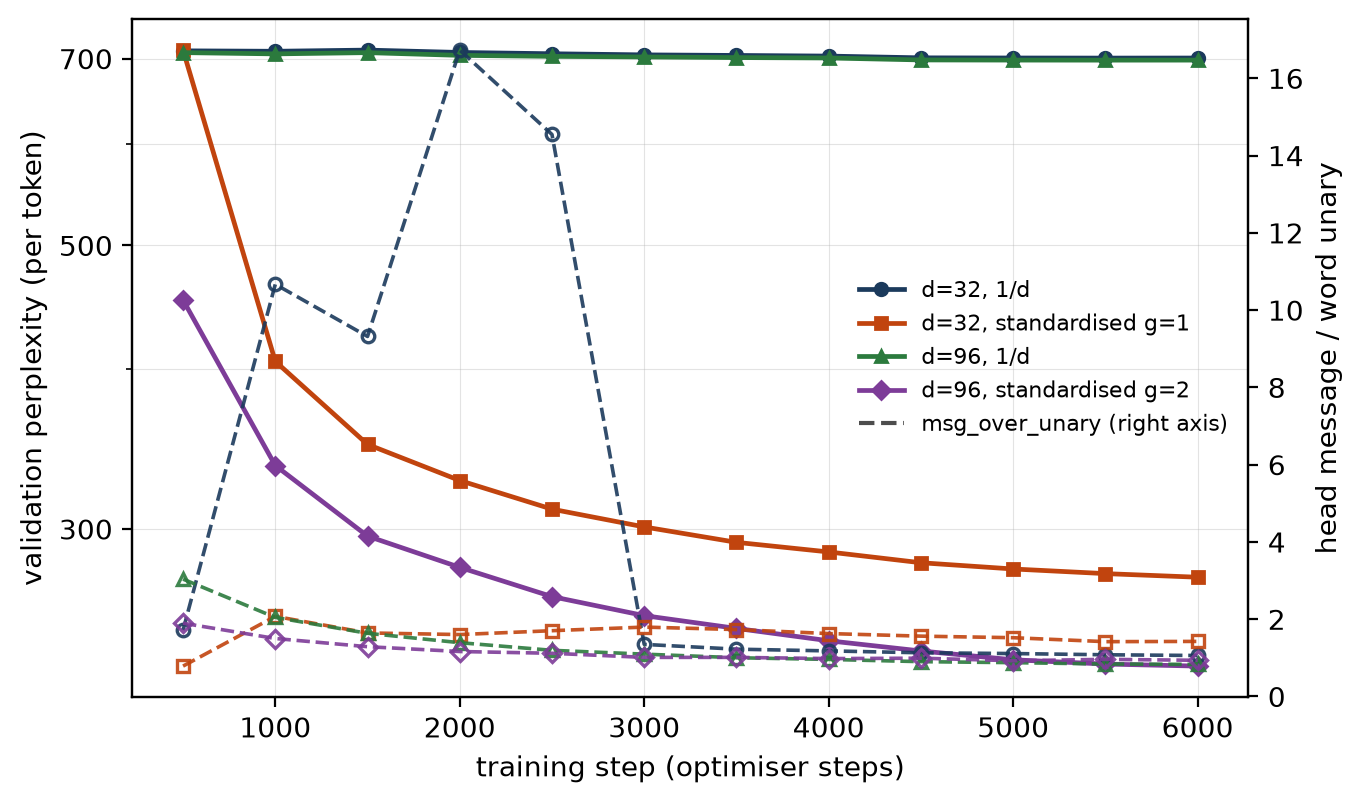
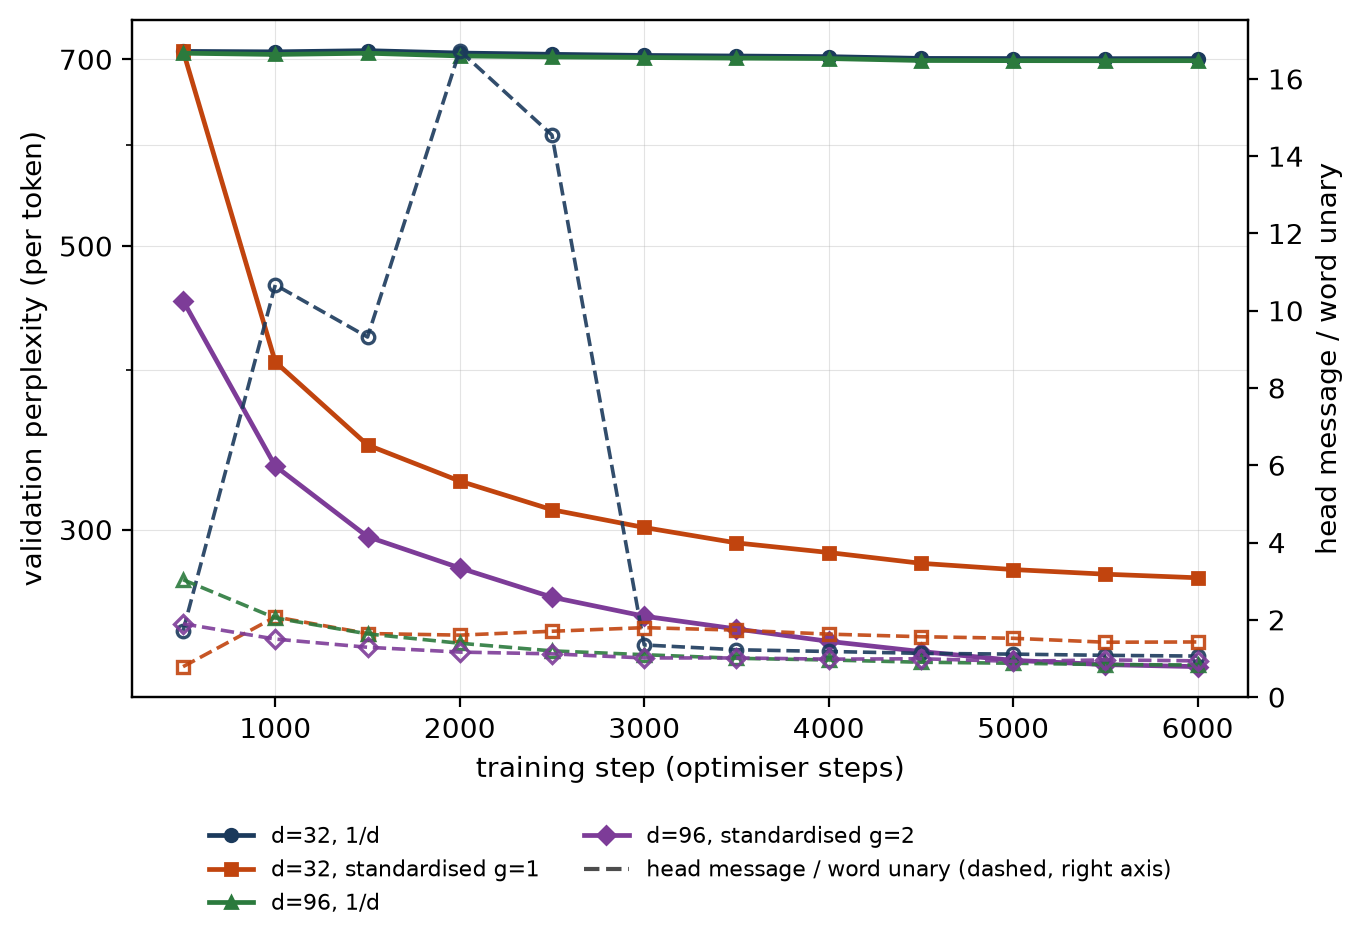
v1.9.2 [docs]: regenerated figures with the legend fix

diff --git a/paper/figures/table_matched.tex b/paper/figures/table_matched.tex
@@ -7,7 +7,7 @@ $\nlab=32$, $\krank=8$ & 4{,}160 & 256.8 $\pm$ 1.5 & --- & --- & 204.7 & 1.25 \\
 $\nlab=64$, $\krank=8$ & 8{,}320 & 232.0 $\pm$ 1.6 & --- & --- & 178.5 & 1.30 \\
 $\nlab=96$, $\krank=12$ & 18{,}624 & 223.1 $\pm$ 5.6 & 178.5 & 1.25 & 157.6 & 1.42 \\
 $\nlab=128$, $\krank=16$ & 33{,}024 & 214.6 $\pm$ 2.0 & 155.9 & 1.38 & 147.7 & 1.45 \\
-$\nlab=192$, $\krank=24$ & 74{,}112 & 211.8 $\pm$ 5.3 & 139.6 & 1.52 & 139.1 & 1.52 \\
-$\nlab=256$, $\krank=32$ & 131{,}584 & 208.8 $\pm$ 0.0 & 132.6 & 1.57 & 136.2 & 1.53 \\
+$\nlab=192$, $\krank=24$ & 74{,}112 & 206.9 $\pm$ 9.2 & 139.6 & 1.48 & 139.1 & 1.49 \\
+$\nlab=256$, $\krank=32$ & 131{,}584 & 204.6 $\pm$ 5.8 & 132.6 & 1.54 & 136.2 & 1.50 \\
 \bottomrule
 \end{tabular}

diff --git a/paper/figures/table_switches.tex b/paper/figures/table_switches.tex
@@ -8,10 +8,10 @@ attn\_query\_proj & 131.1 & +1.9 & 473.4 & -77.9 \\
 attn\_value & 128.7 & -0.6 & --- & --- \\
 ffn & 144.4 & +15.1 & 686.9 & -291.4 \\
 norm & 128.6 & -0.7 & 560.1 & -164.6 \\
-position & 128.9 & -0.4 & 530.6 & -135.1 \\
+position & 128.9 & -0.4 & 430.1 & -34.6 \\
 readout & --- & --- & 688.8 & -293.3 \\
 residual & 136.7 & +7.5 & 687.1 & -291.6 \\
 state & 693.5 & +564.3 & 686.8 & -291.3 \\
-weight\_sharing & 141.8 & +12.5 & 687.2 & -291.7 \\
+weight\_sharing & 141.8 & +12.5 & 479.9 & -84.4 \\
 \bottomrule
 \end{tabular}
